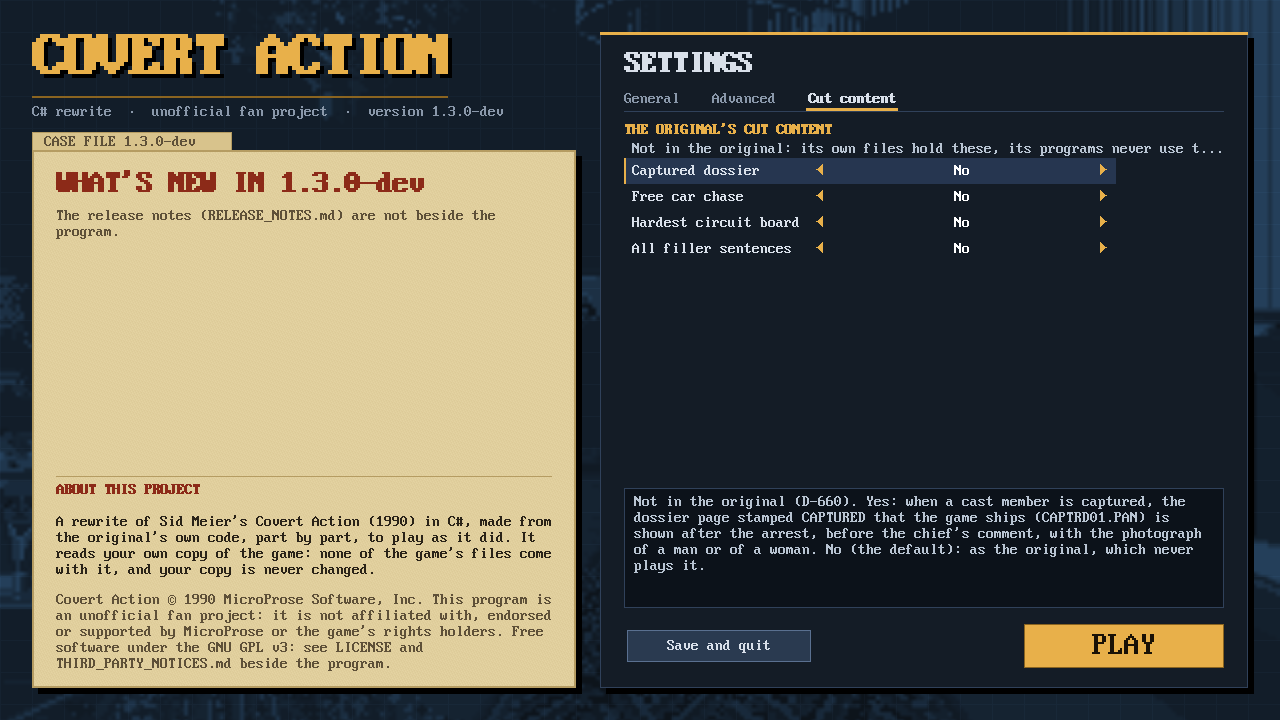
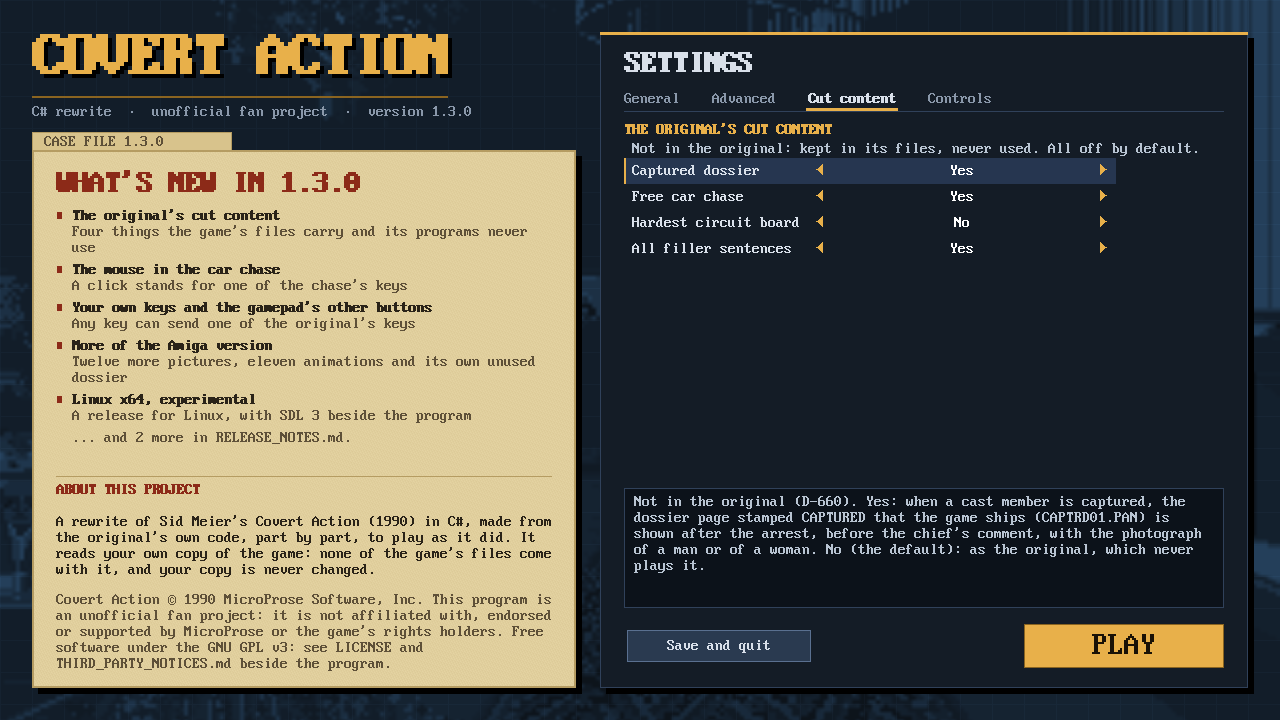
Version 1.3: the notes' items read well in the launcher; the Cut content tab's note fits; its screenshot from the release

diff --git a/csharp/src/CovertAction.Settings/LauncherScreen.cs b/csharp/src/CovertAction.Settings/LauncherScreen.cs
@@ -999,7 +999,7 @@ internal sealed class LauncherScreen
         else if (_cut)
         {
             y = Section("The original's cut content", y);
-            y = Status(y, ("Not in the original: its own files hold these, its programs never use them. All off by default.", Note));
+            y = Status(y, ("Not in the original: kept in its files, never used. All off by default.", Note));
             y = Select(y, "Captured dossier", _model.CutCapturedDossier ? "Yes" : "No", Item.CutCapturedDossier);
             y = Select(y, "Free car chase", _model.CutStandaloneChase ? "Yes" : "No", Item.CutStandaloneChase);
             y = Select(y, "Hardest circuit board", _model.CutHardestCircuit ? "Yes" : "No", Item.CutHardestCircuit);

diff --git a/csharp/releases/1.3.0/release-notes.md b/csharp/releases/1.3.0/release-notes.md
@@ -7,17 +7,20 @@ plays exactly as 1.0 and the original.
 
 ## What's new
 
-- **The original's cut content** (D-660 to D-663): four things the game's own files carry and its programs never
-  use, on the launcher's new Cut content tab. docs/cut-content-options.md shows each, and says what was left out and why.
-- **The mouse in the car chase** (D-670): a click stands for one of the chase's keys; the keys work as before.
-- **Your own keys and the gamepad's other buttons** (D-671, D-672): any key of your keyboard can send one of the
-  original's keys, and the gamepad's shoulders, triggers, Start, Back and stick clicks can each send one.
-- **More of the Amiga version** (D-681 to D-684): twelve more of its pictures, eleven of its animations, and its own
-  unused dossier.
-- **Linux x64, experimental**: a release for Linux, with SDL 3 beside the program.
-- **A tidier launcher**: the keyboard, the mouse, your keys and the gamepad on a new Controls tab; every label fits.
-- **Everything of 1.2, 1.1.5, 1.1 and 1.0.** The bug-fix options, the Amiga music, effects and pictures, the mouse
-  in the menus and the action parts, and the whole faithful game.
+- **The original's cut content.** Four things the game's files carry and its programs never use.
+  On the launcher's new Cut content tab (D-660 to D-663); docs/cut-content-options.md shows each, and says what was
+  left out and why.
+- **The mouse in the car chase.** A click stands for one of the chase's keys.
+  The keys work as before (D-670).
+- **Your own keys and the gamepad's other buttons.** Any key can send one of the original's keys.
+  So can the gamepad's shoulders, triggers, Start, Back and stick clicks (D-671, D-672).
+- **More of the Amiga version.** Twelve more pictures, eleven animations and its own unused dossier.
+  (D-681 to D-684.)
+- **Linux x64, experimental.** A release for Linux, with SDL 3 beside the program.
+- **A tidier launcher.** A new Controls tab for the keyboard, the mouse, your keys and the gamepad.
+  Every label fits.
+- **Everything of 1.2, 1.1.5, 1.1 and 1.0.** The bug fixes, the Amiga sounds and pictures, the mouse in the menus.
+  And the whole faithful game.
 
 ## Getting started
 
